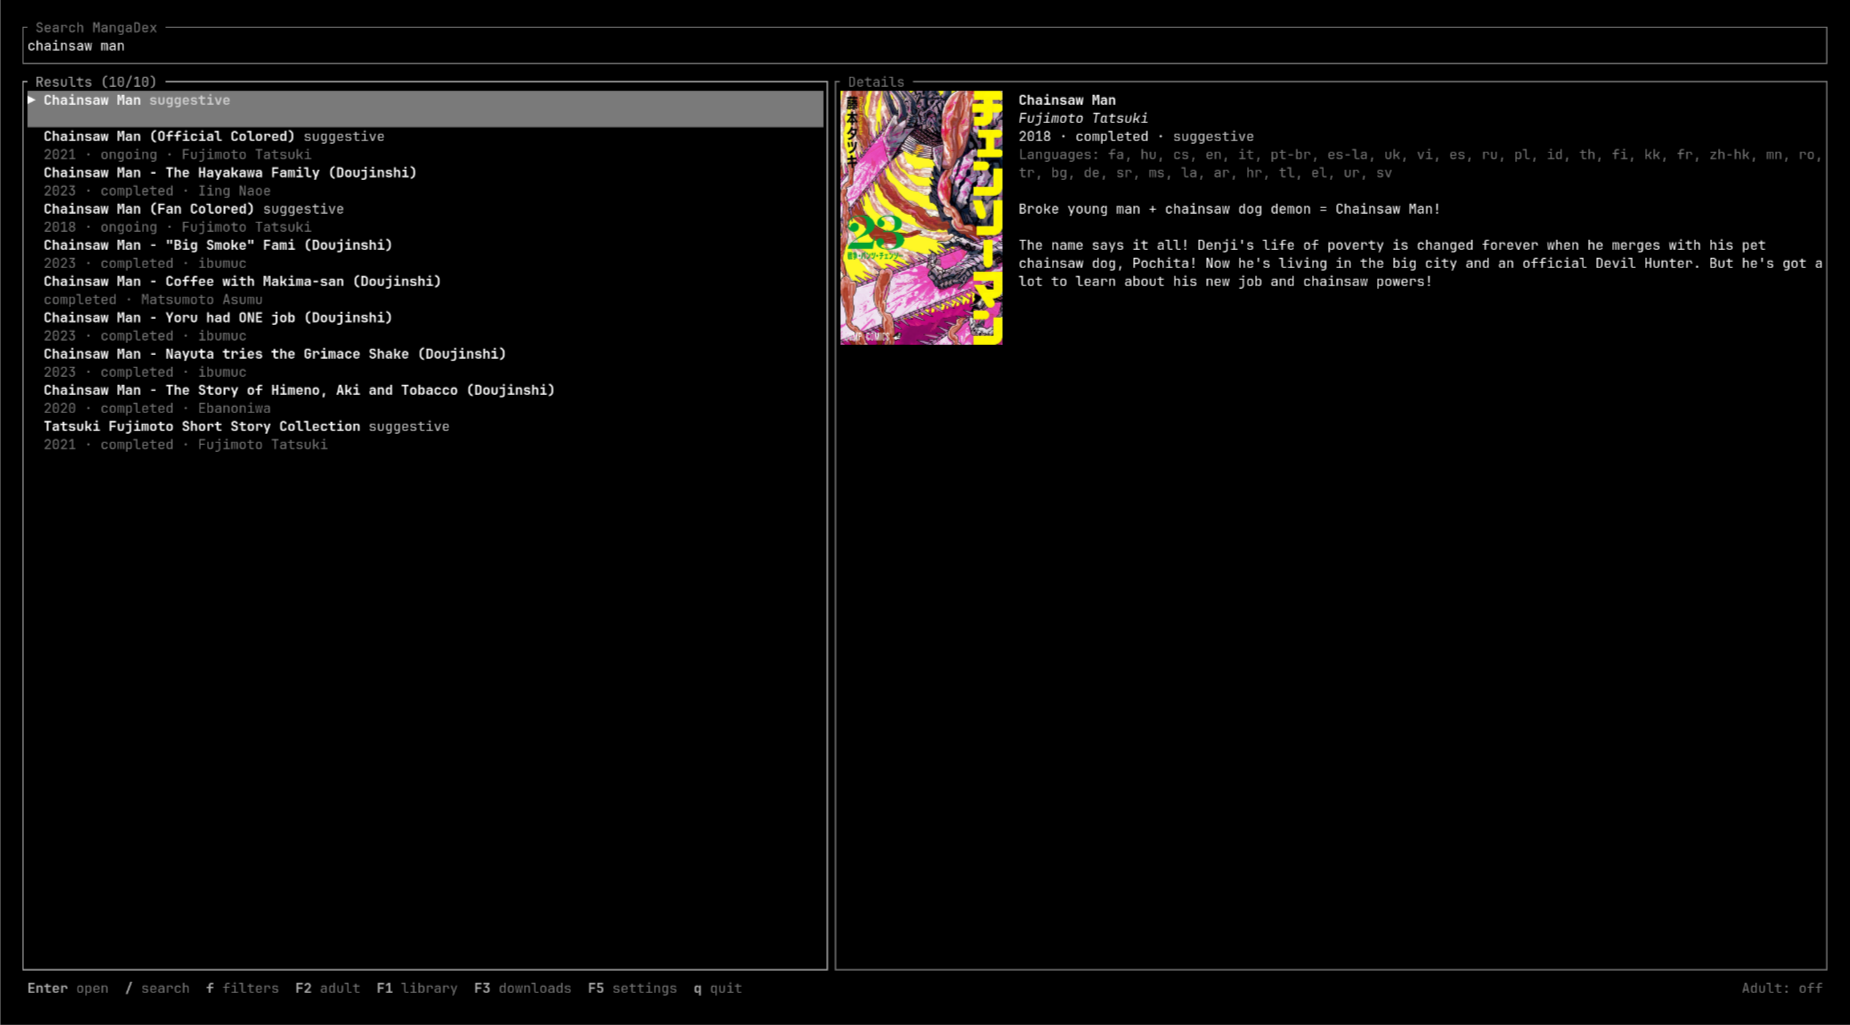
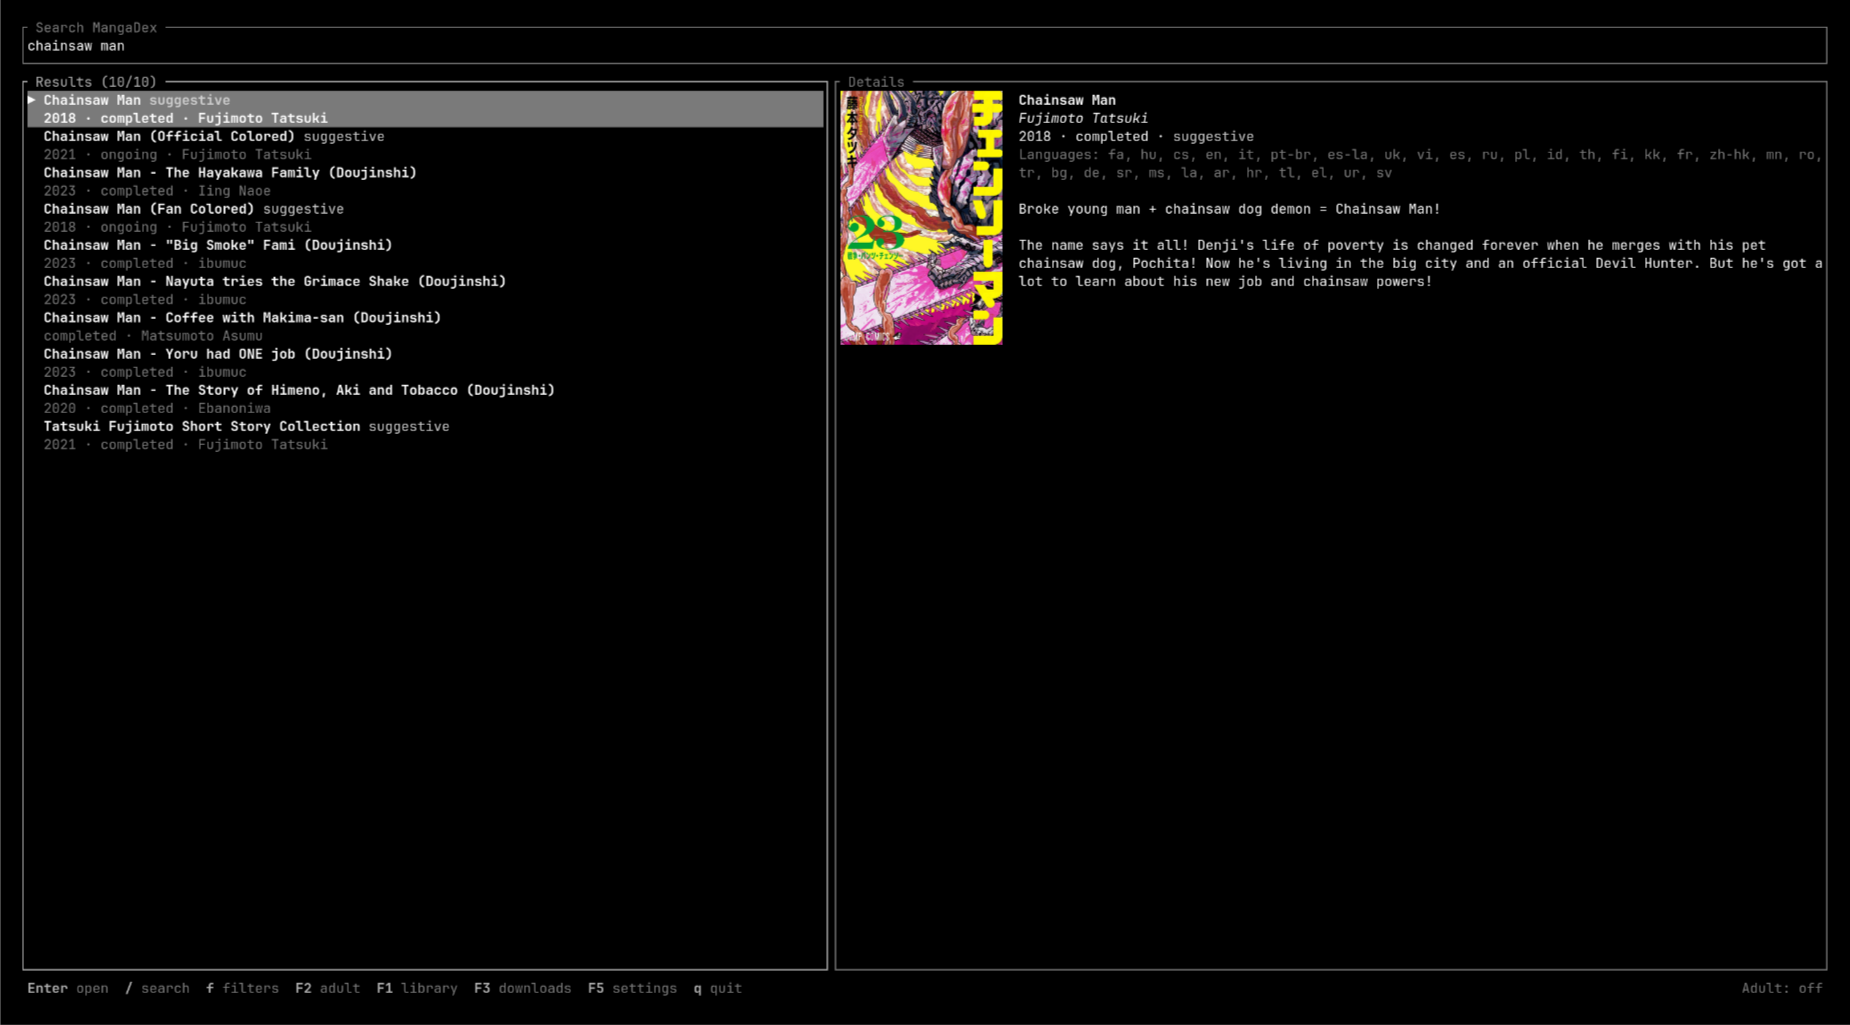
Keep dim text readable on the selected list row
Lists highlight the selected row with a dark grey background, the same colour as the
text they dim (meta lines, language codes, checkboxes), so that text vanished on the
selected row. The lists now share one builder, and drawing one turns dark grey text on
the highlighted row grey. Retakes the README screenshots that showed the bug.

Claude-Session: https://claude.ai/code/session_0186zT2aDgtdyC5qir9fM8KJ

Changed region(s): [[0.0308, 0.2498, 0.2773, 0.3746], [0.0308, 0.0937, 0.1849, 0.1249]]

diff --git a/src/ui/mod.rs b/src/ui/mod.rs
@@ -16,9 +16,11 @@ pub mod settings;
 
 use std::path::Path;
 
-use ratatui::style::{Color, Style, Stylize};
+use ratatui::Frame;
+use ratatui::layout::Rect;
+use ratatui::style::{Color, Modifier, Style, Stylize};
 use ratatui::text::{Line, Span};
-use ratatui::widgets::Block;
+use ratatui::widgets::{Block, List, ListItem, ListState};
 
 use crate::api::ContentRating;
 
@@ -36,6 +38,29 @@ pub(crate) fn border_style(focused: bool) -> Style {
         Color::DarkGray
     };
     Style::new().fg(border)
+}
+
+/// A list that marks its selected row with ▶ on a dark grey background. Draw it with
+/// [`render_list`].
+pub(crate) fn selectable_list<'a>(items: Vec<ListItem<'a>>) -> List<'a> {
+    List::new(items).highlight_symbol("▶ ").highlight_style(
+        Style::new()
+            .bg(Color::DarkGray)
+            .add_modifier(Modifier::BOLD),
+    )
+}
+
+/// Draws a [`selectable_list`]. Text dimmed with dark grey (meta lines, language codes)
+/// would vanish into the selected row's background, so on that row it's drawn grey.
+pub(crate) fn render_list(frame: &mut Frame, list: List, area: Rect, state: &mut ListState) {
+    frame.render_stateful_widget(list, area, state);
+    let buffer = frame.buffer_mut();
+    for position in area.positions() {
+        let cell = &mut buffer[position];
+        if cell.bg == Color::DarkGray && cell.fg == Color::DarkGray {
+            cell.set_fg(Color::Gray);
+        }
+    }
 }
 
 pub(crate) fn rating_span(rating: ContentRating) -> Span<'static> {
@@ -145,7 +170,29 @@ pub(crate) fn buffer_text(terminal: &ratatui::Terminal<ratatui::backend::TestBac
 
 #[cfg(test)]
 mod tests {
+    use ratatui::Terminal;
+    use ratatui::backend::TestBackend;
+
     use super::*;
+
+    #[test]
+    fn dim_text_on_the_selected_row_stays_readable() {
+        let items = ["one", "two"]
+            .map(|name| ListItem::new(Line::from(vec![Span::raw(name), " meta".dark_gray()])))
+            .to_vec();
+        let mut state = ListState::default().with_selected(Some(0));
+        let mut terminal = Terminal::new(TestBackend::new(12, 2)).unwrap();
+        terminal
+            .draw(|frame| {
+                let area = frame.area();
+                render_list(frame, selectable_list(items), area, &mut state);
+            })
+            .unwrap();
+        assert_eq!(buffer_text(&terminal), "▶ one meta  \n  two meta  ");
+        let buffer = terminal.backend().buffer();
+        assert_eq!(buffer[(6, 0)].fg, Color::Gray);
+        assert_eq!(buffer[(6, 1)].fg, Color::DarkGray);
+    }
 
     #[test]
     fn formats_sizes() {

diff --git a/src/ui/manga.rs b/src/ui/manga.rs
@@ -6,13 +6,16 @@ use std::collections::HashMap;
 use crossterm::event::{KeyCode, KeyEvent};
 use ratatui::Frame;
 use ratatui::layout::{Constraint, Layout, Margin, Rect};
-use ratatui::style::{Color, Modifier, Style, Stylize};
+use ratatui::style::Stylize;
 use ratatui::text::{Line, Span, Text};
-use ratatui::widgets::{List, ListItem, ListState, Paragraph, Wrap};
+use ratatui::widgets::{ListItem, ListState, Paragraph, Wrap};
 
 use super::cover::{CoverSource, cover_rect};
 use super::languages::language_name;
-use super::{groups_label, join_spans, key_hints, panel, rating_span, strip_link_section};
+use super::{
+    groups_label, join_spans, key_hints, panel, rating_span, render_list, selectable_list,
+    strip_link_section,
+};
 use crate::api::{Chapter, ChapterSlot, Manga};
 use crate::app::Action;
 
@@ -433,7 +436,12 @@ impl MangaScreen {
                 ]))
             })
             .collect();
-        frame.render_stateful_widget(list_widget(items, block), area, &mut self.language_list);
+        render_list(
+            frame,
+            selectable_list(items).block(block),
+            area,
+            &mut self.language_list,
+        );
     }
 
     fn render_chapters(&mut self, frame: &mut Frame, area: Rect, spinner: &str) {
@@ -462,8 +470,9 @@ impl MangaScreen {
                 let items: Vec<ListItem> = (0..list.slots.len())
                     .map(|index| chapter_item(list, index, &self.downloaded))
                     .collect();
-                frame.render_stateful_widget(
-                    list_widget(items, block),
+                render_list(
+                    frame,
+                    selectable_list(items).block(block),
                     area,
                     &mut self.chapter_list,
                 );
@@ -519,17 +528,6 @@ impl MangaScreen {
         };
         frame.render_widget(Paragraph::new(status), area);
     }
-}
-
-fn list_widget<'a>(items: Vec<ListItem<'a>>, block: ratatui::widgets::Block<'a>) -> List<'a> {
-    List::new(items)
-        .block(block)
-        .highlight_symbol("▶ ")
-        .highlight_style(
-            Style::new()
-                .bg(Color::DarkGray)
-                .add_modifier(Modifier::BOLD),
-        )
 }
 
 fn chapter_item<'a>(

diff --git a/src/ui/library.rs b/src/ui/library.rs
@@ -8,12 +8,15 @@ use std::path::PathBuf;
 use crossterm::event::{KeyCode, KeyEvent};
 use ratatui::Frame;
 use ratatui::layout::{Constraint, Layout, Margin, Rect};
-use ratatui::style::{Color, Modifier, Style, Stylize};
+use ratatui::style::{Color, Style, Stylize};
 use ratatui::text::{Line, Span};
-use ratatui::widgets::{Block, List, ListItem, ListState, Paragraph, Wrap};
+use ratatui::widgets::{Block, ListItem, ListState, Paragraph, Wrap};
 
 use super::cover::{CoverSource, cover_rect};
-use super::{border_style, display_path, groups_label, key_hints, panel, truncate_start};
+use super::{
+    border_style, display_path, groups_label, key_hints, panel, render_list, selectable_list,
+    truncate_start,
+};
 use crate::app::{Action, LookUp};
 use crate::library::delete::Deletion;
 use crate::library::state::ReadingState;
@@ -694,8 +697,9 @@ impl LibraryScreen {
         let focused = self.focus == Focus::Manga;
         frame.render_widget(panel(&title, focused), area);
         let (list_area, cover) = manga_pane_layout(area);
-        frame.render_stateful_widget(
-            list(items, Block::default()),
+        render_list(
+            frame,
+            selectable_list(items),
             list_area,
             &mut self.manga_list,
         );
@@ -772,7 +776,12 @@ impl LibraryScreen {
                 ListItem::new(Line::from(spans))
             })
             .collect();
-        frame.render_stateful_widget(list(items, block), area, &mut self.chapter_list);
+        render_list(
+            frame,
+            selectable_list(items).block(block),
+            area,
+            &mut self.chapter_list,
+        );
     }
 }
 
@@ -861,17 +870,6 @@ fn not_found(manga: &LibraryManga) -> String {
 
 fn is_read(state: &ReadingState, manga: &LibraryManga, chapter: &str) -> bool {
     state.progress(&manga.key, chapter).is_some_and(|p| p.read)
-}
-
-fn list<'a>(items: Vec<ListItem<'a>>, block: Block<'a>) -> List<'a> {
-    List::new(items)
-        .block(block)
-        .highlight_symbol("▶ ")
-        .highlight_style(
-            Style::new()
-                .bg(Color::DarkGray)
-                .add_modifier(Modifier::BOLD),
-        )
 }
 
 #[cfg(test)]

diff --git a/src/ui/search.rs b/src/ui/search.rs
@@ -4,14 +4,16 @@
 use crossterm::event::{KeyCode, KeyEvent};
 use ratatui::Frame;
 use ratatui::layout::{Constraint, Layout, Margin, Rect};
-use ratatui::style::{Color, Modifier, Style, Stylize};
+use ratatui::style::Stylize;
 use ratatui::text::{Line, Span, Text};
-use ratatui::widgets::{List, ListItem, ListState, Paragraph, Wrap};
+use ratatui::widgets::{ListItem, ListState, Paragraph, Wrap};
 
 use super::cover::{CoverSource, cover_rect};
 use super::filters::{self, Closed, FilterPopup, TagList};
 use super::input::TextInput;
-use super::{join_spans, key_hints, panel, rating_span, strip_link_section};
+use super::{
+    join_spans, key_hints, panel, rating_span, render_list, selectable_list, strip_link_section,
+};
 use crate::api::{ContentRating, Manga, SEARCH_PAGE_SIZE, SearchFilters, SearchPage, Tag};
 use crate::app::Action;
 use crate::config::Settings;
@@ -346,15 +348,12 @@ impl SearchScreen {
         }
 
         let items: Vec<ListItem> = self.results.iter().map(result_item).collect();
-        let list = List::new(items)
-            .block(block)
-            .highlight_symbol("▶ ")
-            .highlight_style(
-                Style::new()
-                    .bg(Color::DarkGray)
-                    .add_modifier(Modifier::BOLD),
-            );
-        frame.render_stateful_widget(list, area, &mut self.list);
+        render_list(
+            frame,
+            selectable_list(items).block(block),
+            area,
+            &mut self.list,
+        );
     }
 
     fn render_details(&self, frame: &mut Frame, area: Rect) {

diff --git a/src/ui/downloads.rs b/src/ui/downloads.rs
@@ -4,11 +4,11 @@
 use crossterm::event::{KeyCode, KeyEvent};
 use ratatui::Frame;
 use ratatui::layout::{Constraint, Layout, Rect};
-use ratatui::style::{Color, Modifier, Style, Stylize};
+use ratatui::style::Stylize;
 use ratatui::text::{Line, Span};
-use ratatui::widgets::{List, ListItem, ListState, Paragraph};
+use ratatui::widgets::{ListItem, ListState, Paragraph};
 
-use super::{display_path, key_hints, panel, truncate_start};
+use super::{display_path, key_hints, panel, render_list, selectable_list, truncate_start};
 use crate::app::Action;
 use crate::download::{Event, Job, SavedChapter, SavedQueue, Update};
 
@@ -318,15 +318,12 @@ impl DownloadsScreen {
                 .iter()
                 .map(|entry| entry_item(entry, spinner, self.paused))
                 .collect();
-            let list = List::new(items)
-                .block(block)
-                .highlight_symbol("▶ ")
-                .highlight_style(
-                    Style::new()
-                        .bg(Color::DarkGray)
-                        .add_modifier(Modifier::BOLD),
-                );
-            frame.render_stateful_widget(list, body, &mut self.list);
+            render_list(
+                frame,
+                selectable_list(items).block(block),
+                body,
+                &mut self.list,
+            );
         }
 
         let status = match &self.notice {

diff --git a/src/ui/settings.rs b/src/ui/settings.rs
@@ -6,13 +6,13 @@ use std::path::{Path, PathBuf};
 use crossterm::event::{KeyCode, KeyEvent};
 use ratatui::Frame;
 use ratatui::layout::{Constraint, Flex, Layout, Rect};
-use ratatui::style::{Color, Modifier, Style, Stylize};
+use ratatui::style::Stylize;
 use ratatui::text::{Line, Span};
-use ratatui::widgets::{Block, Clear, List, ListItem, ListState, Paragraph};
+use ratatui::widgets::{Block, Clear, ListItem, ListState, Paragraph};
 
 use super::input::TextInput;
 use super::languages::{LANGUAGES, language_name};
-use super::{display_path, key_hints, panel, truncate_start};
+use super::{display_path, key_hints, panel, render_list, selectable_list, truncate_start};
 use crate::api::Quality;
 use crate::app::Action;
 use crate::config::{Settings, expand_home};
@@ -382,12 +382,7 @@ fn render_language_picker(
                 ]))
             })
             .collect();
-        let widget = List::new(items).highlight_symbol("▶ ").highlight_style(
-            Style::new()
-                .bg(Color::DarkGray)
-                .add_modifier(Modifier::BOLD),
-        );
-        frame.render_stateful_widget(widget, choices, list);
+        render_list(frame, selectable_list(items), choices, list);
     }
     let keys = key_hints(&[("type", "to find"), ("Enter", "set"), ("Esc", "cancel")]);
     frame.render_widget(Paragraph::new(keys), hints);
